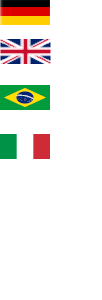
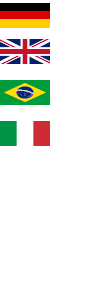
Some minor changes to the flags

Changed region(s): [[0.0, 0.0, 0.5, 0.45], [0.3235, 0.48, 0.5, 0.54], [0.0, 0.48, 0.1765, 0.54]]

diff --git a/shouldistayinside/css/style.css b/shouldistayinside/css/style.css
@@ -126,7 +126,7 @@ img {
 
 
 #header .language a.german {
-	background-position: 0 0;
+	background-position: 0 -3px;
 }
 
 #header .language a.english{
@@ -135,11 +135,11 @@ img {
 
 /*here is the positionind for the brazilian and italien flag
 #header .language a.portuges {
-	background-position: 0 -86px;
+	background-position: 0 -80px;
 }
 
 #header .language a.italian{
-	background-position: 0 -135px;
+	background-position: 0 -121px;
 }
 */
 

diff --git a/shouldistayinside/css/mobile.css b/shouldistayinside/css/mobile.css
@@ -18,7 +18,7 @@
 	#header div {
 		max-width: none;
 		overflow: hidden;
-		padding: 15% 0 13%;
+		padding: 15% 0 15%;
 		width: 100%;
 	}
 	
@@ -28,10 +28,13 @@
 		padding: 0 0 0 0;
 		position: absolute;
 		right: 6%;
-		top: 15px;
+		top: 5px;
 		width: 80px;
 		z-index: 999;
 	}
+
+	
+	
 	
 	#header span#mobile-navigation {
 		background: transparent url(../images/mobile/mobile-menu.png) no-repeat;
